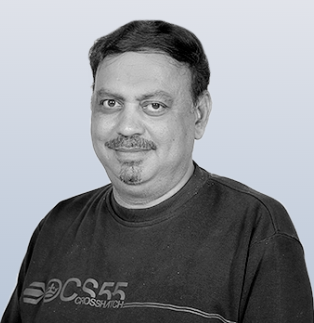
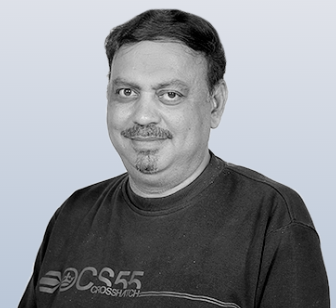
Update

diff --git a/faculty.md b/faculty.md
@@ -25,7 +25,7 @@ title: Faculty
   </div>
 </div>
 
-<h2 id="RAJEEV">Prof. Santosh Dubey</h2>
+<h2 id="RAJEEV">Prof. Rajeev Gupta</h2>
 <div style="background: linear-gradient(90deg, #fffbe7 60%, #e9edf4 100%); border-radius: 18px; box-shadow: 0 6px 18px rgba(0,0,0,0.10); padding: 32px 24px; margin-bottom: 40px; display: flex; align-items: center; gap: 32px; flex-wrap: wrap;">
   <img src="assests/images/rajiv.png" alt="Program Lead" style="width: 170px; height: 170px; border-radius: 50%; box-shadow: 0 2px 8px rgba(0,0,0,0.08); border: 4px solid #bfa100;">
   <div style="flex: 1; min-width: 260px;">